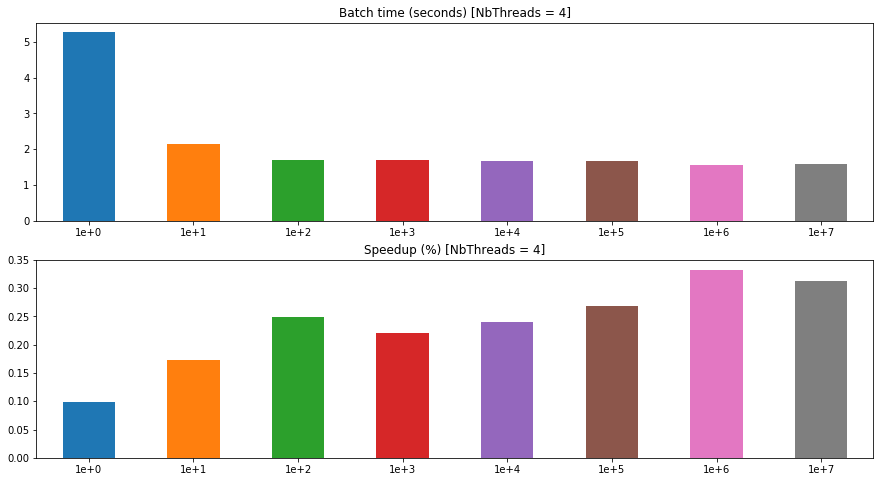
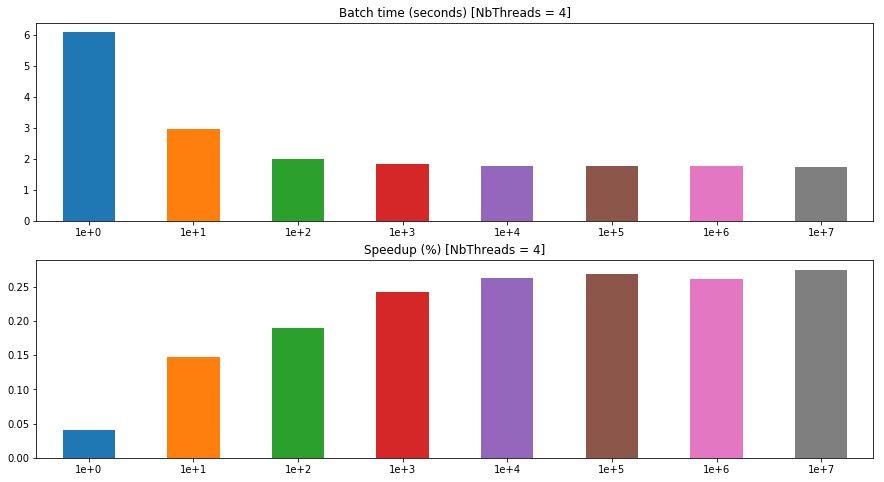
Update speedup notebook to recent changes

diff --git a/docs/README.md b/docs/README.md
@@ -68,7 +68,7 @@ op_path = Path('./operating_points.npy')
 if is_demo and op_path.is_file():
     data = np.load(str(op_path))
 else:
-    data = np.zeros((len(nb_threads), len(batch_size), 12))
+    data = np.zeros((len(nb_threads), len(batch_size), 13))
     for i, thread in enumerate(nb_threads):
         for j, size in enumerate(batch_size):
             out = subprocess.run(args=args + ['-t', '{}'.format(thread), '-B', '{}'.format(size)], \
@@ -125,9 +125,9 @@ print('  NbThreads: {:d}'.format(max_nb_threads))
 print('  BatchSize: {:d}'.format(max_batch_size))
 ```
 
-    Max speedup: 33.272%
+    Max speedup: 27.476%
       NbThreads: 4
-      BatchSize: 1000000
+      BatchSize: 10000000
 
 
 
@@ -138,7 +138,7 @@ print('  BatchSize: {:d}'.format(max_batch_size))
 ```python
 # Store computed operating points
 if not op_path.is_file():
-    np.save('./operating_points.npy', data)
+    np.save(str(op_path), data)
 ```
 
 ## Number of threads analysis
@@ -162,7 +162,7 @@ speedup_t.plot.bar(y='Speedup', legend=False, title='Speedup (%) [NbThreads = {}
 
 
 
-    <matplotlib.axes._subplots.AxesSubplot at 0x7f13eede47f0>
+    <matplotlib.axes._subplots.AxesSubplot at 0x7fa6240c6160>
 
 
 
@@ -191,7 +191,7 @@ speedup_b.plot.bar(y='Speedup', legend=False, title='Speedup (%) [BatchSize = {}
 
 
 
-    <matplotlib.axes._subplots.AxesSubplot at 0x7f13eeffb048>
+    <matplotlib.axes._subplots.AxesSubplot at 0x7fa6224e0e80>
 
 
 
